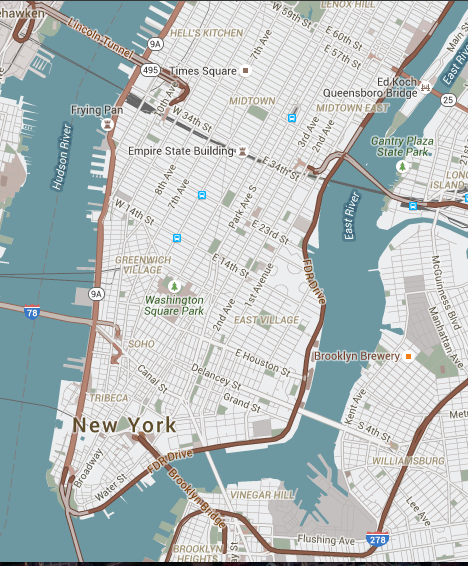
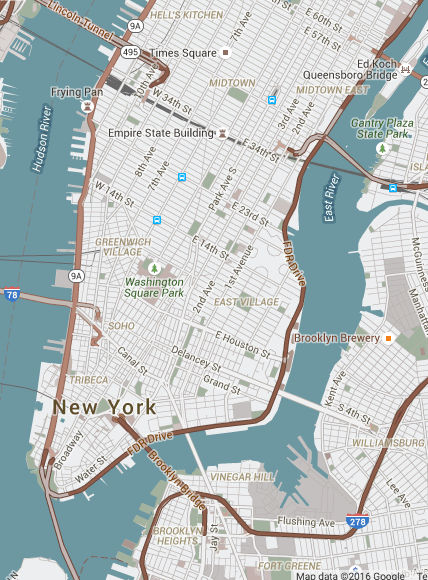
fixing background, adding svg and details to home page

diff --git a/home.html b/home.html
@@ -10,6 +10,53 @@
 
   <div class = "powered-by"><p>Powered by</p><img class = "farefairy" src = "/assets/images/FareFairyLogo-01.jpg"></img></div>
 
+  <div class = "ridesharing-go">
+    <svg version="1.1" id="Layer_1" xmlns="http://www.w3.org/2000/svg" xmlns:xlink="http://www.w3.org/1999/xlink" x="0px" y="0px"
+       viewBox="0 0 134.1 59" style="enable-background:new 0 0 134.1 59;" xml:space="preserve">
+      <style type="text/css">
+          .st0{fill:#5B5C5E ;}
+          .st1{fill:#57B74D ;}
+          .st2{fill:#FFFFFF ;}
+      </style>
+      <g>
+          <path class="st0" d="M87.1-44.7c1.8,1,3.3,2.4,4.4,4.2v-18.3h10.2v51.9H92v-5.3c-1.4,2.3-3.1,3.9-4.9,5c-1.8,1-4.1,1.6-6.8,1.6
+              c-4.5,0-8.3-1.8-11.3-5.4c-3.1-3.6-4.6-8.3-4.6-14c0-6.6,1.5-11.7,4.5-15.5c3-3.8,7.1-5.6,12.1-5.6C83.2-46.2,85.3-45.7,87.1-44.7z
+               M89.6-17.3c1.5-2.1,2.2-4.9,2.2-8.2c0-4.7-1.2-8.1-3.6-10.1c-1.5-1.2-3.2-1.8-5.1-1.8c-2.9,0-5.1,1.1-6.5,3.3
+              c-1.4,2.2-2.1,5-2.1,8.3c0,3.5,0.7,6.4,2.1,8.5c1.4,2.1,3.5,3.2,6.4,3.2C86-14.1,88.1-15.2,89.6-17.3z"/>
+          <path class="st0" d="M59.9-49.9H49.7v-9.3h10.2V-49.9z M49.7-45.3h10.2v38.4H49.7V-45.3z"/>
+          <path class="st0" d="M43.2-11.1C43-12,42.9-13.6,42.9-16v-3.5c0-3.6-0.5-6.4-1.5-8.1c-1-1.8-2.7-3.1-5.1-4.1c2.9-1,4.9-2.7,6.2-5.1
+              c1.2-2.4,1.9-4.8,1.9-7.3c0-2-0.3-3.9-1-5.5c-0.6-1.6-1.5-3.1-2.6-4.4c-1.3-1.6-3-2.8-4.9-3.6c-1.9-0.8-4.6-1.3-8.2-1.3H2.8v9.3
+              L13.4-39v-10.8h12c2.2,0,3.9,0.3,5,0.9c2,1.1,3,3.2,3,6.3c0,2.9-1,4.9-3.1,5.9c-1.2,0.6-2.9,0.8-5.2,0.8h-8.6l2.5,2.5L2.8-17.2
+              v10.3h10.6v-20.4H24c3,0,5.1,0.6,6.2,1.7c1.1,1.1,1.7,3.3,1.7,6.6l0.1,4.8c0,1.5,0.2,3,0.5,4.5C32.6-9,32.8-8,33.2-6.9h12v-1.3
+              C44.1-8.8,43.4-9.8,43.2-11.1z"/>
+          <path class="st1" d="M-31.8-29h26.4L-18.5-16h12.3l17.4-17.4L-6.2-50.8h-12.3l13.1,13.1h-26.4V-29z"/>
+          <path class="st0" d="M169.5-47.5c0.1,0,0.4,0,0.9,0.1v10.3c-0.6-0.1-1.2-0.1-1.7-0.1c-0.5,0-0.9,0-1.2,0c-4,0-6.8,1.3-8.1,3.9
+              c-0.8,1.5-1.2,3.8-1.2,6.8v18.4H148v-38.4h9.6v6.7c1.6-2.6,2.9-4.3,4.1-5.3c1.9-1.6,4.3-2.4,7.3-2.4
+              C169.2-47.5,169.3-47.5,169.5-47.5z"/>
+          <path class="st0" d="M134.5-45.8c2.7,1.2,4.9,3.1,6.6,5.7c1.6,2.3,2.6,4.9,3.1,7.9c0.3,1.8,0.4,4.3,0.3,7.6h-28
+              c0.2,3.9,1.5,6.6,4,8.1c1.5,1,3.4,1.4,5.5,1.4c2.3,0,4.1-0.6,5.6-1.8c0.8-0.6,1.5-1.5,2.1-2.6H144c-0.3,2.3-1.5,4.6-3.7,6.9
+              c-3.4,3.7-8.3,5.6-14.5,5.6c-5.1,0-9.6-1.6-13.5-4.7c-3.9-3.2-5.9-8.3-5.9-15.4c0-6.7,1.8-11.8,5.3-15.3c3.5-3.6,8.1-5.3,13.7-5.3
+              C128.8-47.6,131.8-47,134.5-45.8z M119.4-37.2c-1.4,1.5-2.3,3.4-2.7,5.9h17.3c-0.2-2.7-1.1-4.7-2.7-6.1c-1.6-1.4-3.6-2.1-6-2.1
+              C122.8-39.4,120.8-38.6,119.4-37.2z"/>
+      </g>
+      <g>
+          <path class="st2" d="M111.4,50c-3.1,3.9-7.9,5.8-14.2,5.8c-6.4,0-11.1-1.9-14.2-5.8c-3.1-3.9-4.7-8.5-4.7-13.9
+              c0-5.3,1.6-10,4.7-13.9c3.1-3.9,7.9-5.9,14.2-5.9c6.4,0,11.1,2,14.2,5.9c3.1,3.9,4.7,8.5,4.7,13.9C116,41.5,114.5,46.1,111.4,50z
+               M103.6,44.7c1.5-2,2.3-4.9,2.3-8.6c0-3.7-0.8-6.6-2.3-8.6c-1.5-2-3.7-3-6.5-3c-2.8,0-5,1-6.5,3c-1.5,2-2.3,4.8-2.3,8.6
+              c0,3.7,0.8,6.6,2.3,8.6c1.5,2,3.7,3,6.5,3C99.9,47.7,102.1,46.7,103.6,44.7z"/>
+          <path class="st2" d="M119,4.7h10.6v12.7l-2.7,23.3h-5.1L119,17.4V4.7z M119.2,44.7h10.1v9.8h-10.1V44.7z"/>
+          <path class="st2" d="M2.8,33.1h18.6L8.3,46.2h12.3l17.5-17.5L20.6,11.3H8.3l13.1,13.1H2.8V33.1z"/>
+          <g>
+              <path class="st2" d="M38.9,24.1c0.6-3.2,1.7-5.8,3.4-7.7c2.6-3,5.9-4.6,9.9-4.6c2.1,0,4,0.4,5.7,1.1c3.1,1.4,5,3.7,5.8,7.2H74
+                  c-0.6-4.8-2.8-8.8-6.6-12.1c-3.9-3.2-9-4.8-15.3-4.8c-7.3,0-13.2,2.4-17.7,7.3c-1.5,1.6-2.7,3.4-3.7,5.4L38.9,24.1z"/>
+              <path class="st2" d="M53.3,27.7V36h11.6c-0.5,3.3-1.9,5.9-4.1,7.9c-2.2,2-5.1,3-8.6,3c-3.6,0-6.8-1.3-9.6-3.8
+                  c-2.2-2-3.5-5.1-4-9.4L30,42.3c1.1,2.5,2.5,4.7,4.3,6.6c4.2,4.6,9.7,6.9,16.3,6.9c4,0,7.4-0.8,10.2-2.5c1.6-1,3.4-2.6,5.4-5
+                  l1.1,6.2h6.9V27.7H53.3z"/>
+          </g>
+      </g>
+      </svg>
+  </div>
+
 </section>
 
 

diff --git a/assets/stylesheets/home.css b/assets/stylesheets/home.css
@@ -5,13 +5,14 @@ html {
 .home-map-container {
   border: .1px solid white;
   background-image: url(/assets/images/static-map.png);
+  background-size: cover;
   padding-bottom: 10%; }
 
 .home-container {
   color: #462d28;
   background-color: white;
-  margin-top: 30%;
-  margin-bottom: 20%;
+  margin-top: 20%;
+  margin-bottom: 15%;
   padding-top: 10%;
   padding-bottom: 10%; }
   .home-container .home-search-label {
@@ -50,7 +51,10 @@ input::-webkit-input-placeholder {
   border: 3px solid #462d28; }
 
 .powered-by {
-  margin-left: 8%; }
+  display: inline-block;
+  width: 50%;
+  margin-left: 8%;
+  margin-right: 0; }
   .powered-by p {
     font-size: 1em;
     display: inline-block;
@@ -59,5 +63,18 @@ input::-webkit-input-placeholder {
   .powered-by img {
     padding-left: 3px;
     display: inline-block; }
+
+.ridesharing-go {
+  display: inline-block;
+  margin-top: 5px;
+  margin-right: 11%;
+  background-color: #57b74d;
+  width: 100px;
+  height: 75px;
+  padding-top: 25px;
+  padding-left: 5px;
+  padding-right: 5px;
+  border-radius: 5px;
+  float: right; }
 
 /*# sourceMappingURL=home.css.map */

diff --git a/assets/stylesheets/home.scss b/assets/stylesheets/home.scss
@@ -8,14 +8,15 @@ html {
 .home-map-container{
   border: .1px solid white;
   background-image: url(/assets/images/static-map.png);
+  background-size: cover;
   padding-bottom: 10%;
 }
 
 .home-container{
   color: rgb(70,45,40);
   background-color: white;
-  margin-top: 30%;
-  margin-bottom: 20%;
+  margin-top: 20%;
+  margin-bottom: 15%;
   padding-top: 10%;
   padding-bottom: 10%;
 
@@ -65,7 +66,10 @@ input::-webkit-input-placeholder {
 }
 
 .powered-by{
+  display: inline-block;
+  width: 50%;
   margin-left: 8%;
+  margin-right: 0;
 
   p {
     font-size: 1em;
@@ -78,4 +82,18 @@ input::-webkit-input-placeholder {
     padding-left: 3px;
     display: inline-block;
   }
+}
+
+.ridesharing-go{
+  display: inline-block;
+  margin-top: 5px;
+  margin-right: 11%;
+  background-color: #57b74d;
+  width: 100px;
+  height: 75px;
+  padding-top: 25px;
+  padding-left: 5px;
+  padding-right: 5px;
+  border-radius: 5px;
+  float: right;
 }
